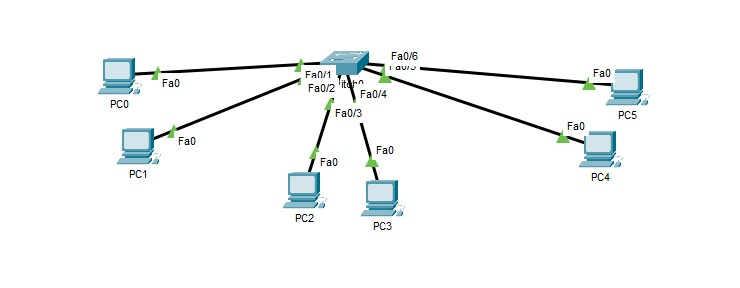
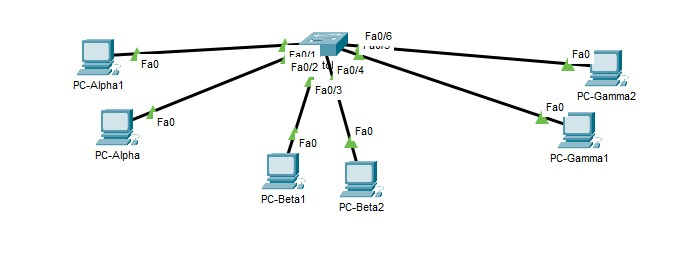
inserimento panoramica Topologia PC Configurati

Changed region(s): [[0.0909, 0.1212, 0.9091, 0.8182]]

diff --git a/Verifica-vlsm-studente4D.html b/Verifica-vlsm-studente4D.html
@@ -1128,9 +1128,7 @@ Default Gateway: <span class="comment">(lasciare vuoto)</span>
     </div>
 
     <div class="img-placeholder">
-        <div class="icon">✅</div>
-        <div class="label">[IMG_07] — Panoramica della topologia con tutti i PC configurati</div>
-        <div class="hint">Mostra la topologia completa; opzionalmente, posiziona il mouse su un PC per vedere il tooltip con l'IP</div>
+        <div class="label"><img src = "panoramicaTopologiaPCConfigurati.JPG"></div>
     </div>
 
     <div class="exercise-box">
